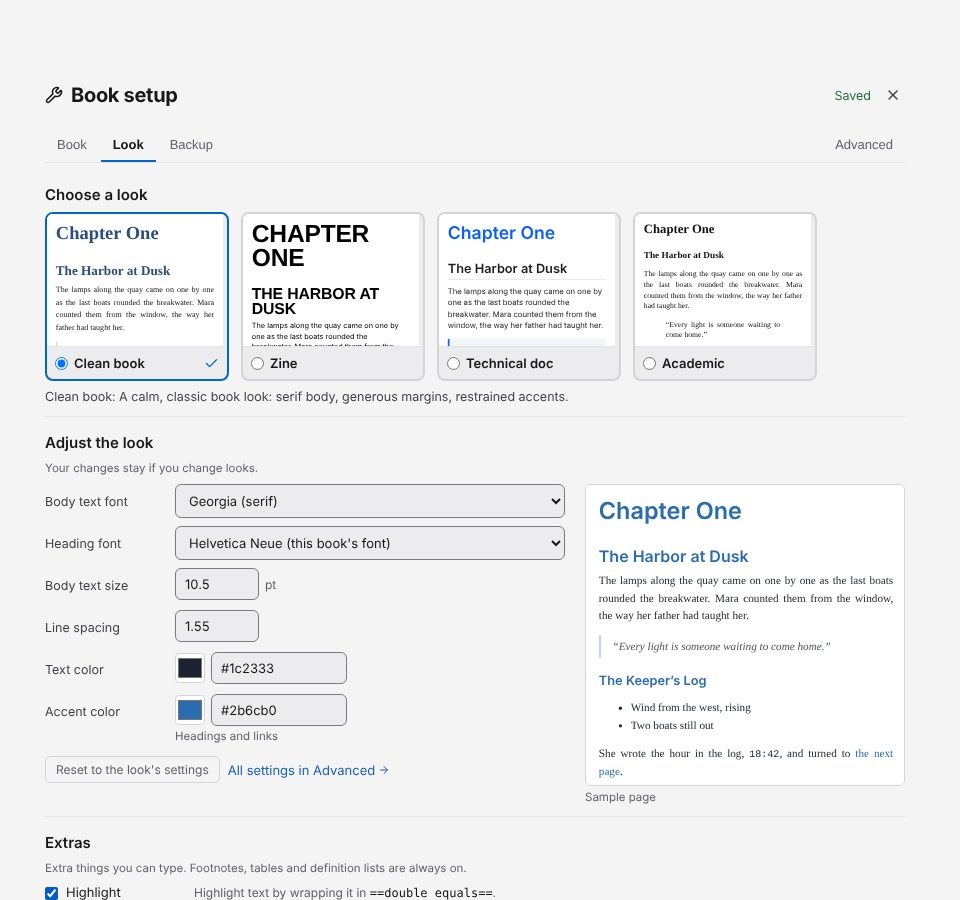
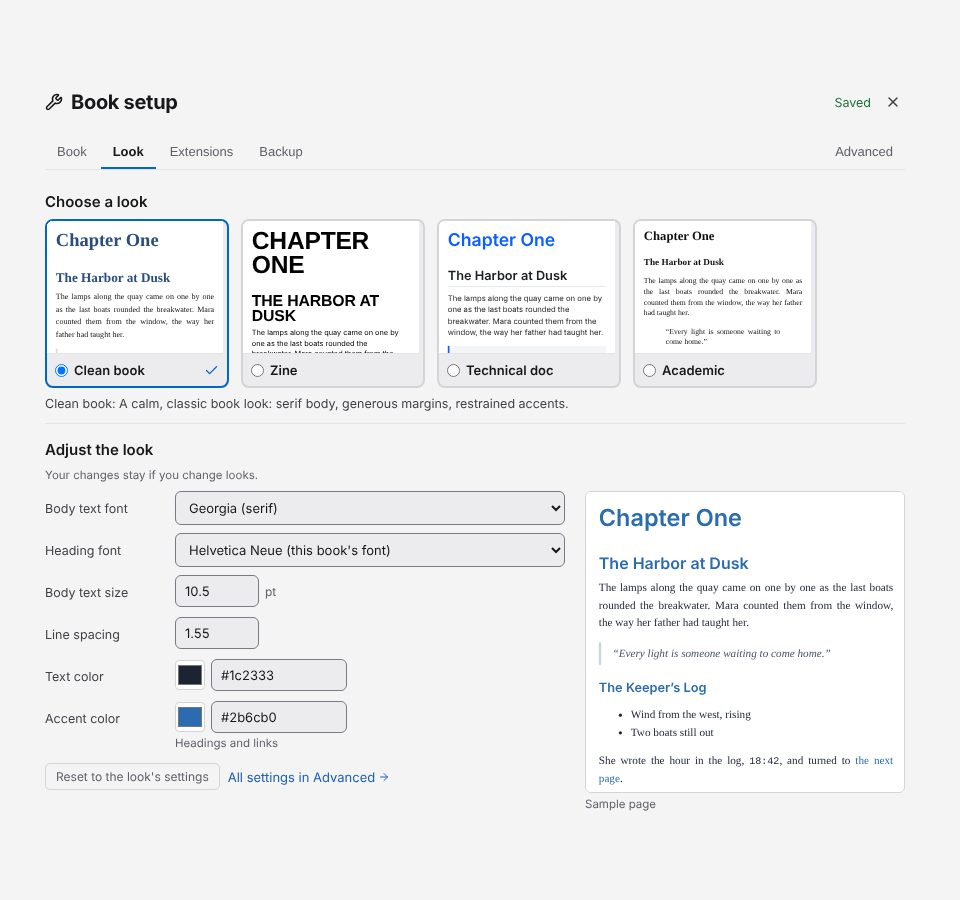
Docs: the Extensions tab and the Stylesheets list
- The UX contract's Book setup tree, §9 (Extensions) and §11 (stylesheets
  are now a list on Advanced) describe the new tabs.
- The desktop guide sends authors to Setup > Extensions for extras, plugins
  and publishing plugins, and to Advanced for the stylesheets.
- The guide screenshots script takes the Extensions and Advanced tabs;
  book-settings-advanced.jpg is new, and the images that show the tab strip
  are retaken.

Claude-Session: https://claude.ai/code/session_0178UQ9MC2nUJf2zfopzSu4q

diff --git a/docs/ux-design-contract.md b/docs/ux-design-contract.md
@@ -119,17 +119,22 @@ gutterpress/
 │                                                        proposed deltas: preflight checklist, history)
 ├── Book setup                                 SHIPPED  (ProjectSettingsView, the toolbar's Setup
 │   │                                                    button; title "Book setup"; tabs Book /
-│   │                                                    Look / Backup, Advanced set apart at the
-│   │                                                    right; one Saving…/Saved in the header;
-│   │                                                    every tab saves as you go; #442)
+│   │                                                    Look / Extensions / Backup, Advanced set
+│   │                                                    apart at the right; one Saving…/Saved in
+│   │                                                    the header; every tab saves as you go; #442)
 │   ├── Book (id `book`)                       SHIPPED  (DetailsSection: title, authors, page size,
 │   │                                                    margins, print checks, then chapters by
 │   │                                                    title with "Not in the book" below, then
 │   │                                                    Save as template)
 │   ├── Look (id `look`)                       SHIPPED  (LookSection: Choose a look (a one-choice
 │   │                                                    gallery), Adjust the look (six brand
-│   │                                                    settings beside a live sample), Extras
-│   │                                                    (the built-in features as checkboxes))
+│   │                                                    settings beside a live sample))
+│   ├── Extensions (id `extensions`)           SHIPPED  (ExtensionsSection: Your extensions (the
+│   │                                                    manifest's ordered list: checkbox, move,
+│   │                                                    Remove), then Add an extension: the
+│   │                                                    built-in extras the book does not list,
+│   │                                                    each with what to type, then npm, folder,
+│   │                                                    .zip/.css and web-address adds)
 │   ├── Backup (id `backup`)                   SHIPPED  (ProjectConnectionsSection: one sentence for
 │   │                                                    the book's situation and at most one
 │   │                                                    primary action; GitHub or the book's own
@@ -137,11 +142,12 @@ gutterpress/
 │   │                                                    once set up, Test connection (this book's
 │   │                                                    repository), Repair online backup and
 │   │                                                    Start over from the online copy)
-│   └── Advanced (id `advanced`)               SHIPPED  (the ONE advanced path: Open manifest.yaml /
-│                                                        the stylesheet, the ordered extensions
-│                                                        list (ExtensionsSection) with npm, folder,
-│                                                        .zip/.css and web-address adds, and every
-│                                                        design setting (DesignSection))
+│   └── Advanced (id `advanced`)               SHIPPED  (the ONE advanced path: Open manifest.yaml,
+│                                                        the Stylesheets list (StylesSection: the
+│                                                        manifest's `styles:` in order, each with
+│                                                        move, Open and Remove, and the book's other
+│                                                        .css files to add), and every design
+│                                                        setting (DesignSection))
 ├── Project source / version history / GitHub  SHIPPED  (#12–#16, the Node-native git layer; AdvancedSetupDialog,
 │                                                        GitHubDialog, sync status)
 ├── Media panel                                SHIPPED  (MediaPanel, #47)
@@ -166,8 +172,9 @@ gutterpress/
 ```
 
 Document theming (looks, design tokens, stylesheets) and features (plugins)
-live in **Book setup** — the Look tab chooses a look, adjusts its brand
-settings and turns the extras on; Advanced holds everything else — not app
+live in **Book setup** — the Look tab chooses a look and adjusts its brand
+settings, the Extensions tab holds the extension list and turns the extras on,
+and Advanced holds the stylesheets and every design setting — not app
 Settings: app appearance and print theme are deliberately separated
 concepts; do not merge them back. Forms live where their task happens: a
 publishing key is added in Publish, a book's Git server is connected in its
@@ -469,9 +476,11 @@ buttons.
   the Dev persona's "no escape hatches" pain point and would **regress
   shipped, ungated features** (#30 plugins, #32 themes).
 - Book setup's **Book and Look tabs are core to a good first PDF and are
-  never gated**. Its **Advanced** tab is the one advanced path for npm, folder
-  and web extensions, their order, every design setting and the files behind
-  them; the other tabs link to it and never repeat its controls.
+  never gated**. Its **Extensions** tab is the one place for the extension
+  list — the built-in extras, npm, folder and web extensions, and their order
+  — and its **Advanced** tab is the one place for the stylesheets, every
+  design setting and the manifest; the other tabs link to them and never
+  repeat their controls.
 - **Every Book setup tab saves as you go; there is no Save button.** Text
   fields commit when you leave them or press Enter; pending edits are saved
   when you switch tabs or close the panel. A commit writes only what changed
@@ -706,12 +715,12 @@ Proposed refinements (file issues):
   and badge the count above N matches.
 - "Visual Mode" toggle → belongs to #37 (see §5).
 
-### 9. Extensions (one list: looks, features, component libraries) — on screen: Look and Advanced
+### 9. Extensions (one list: looks, features, component libraries) — on screen: Look and Extensions
 
 **Status: SHIPPED** (one manifest list, `extensions:`, since #265; shown
 since #442 as Book setup → **Look** for the main path — a look chosen from a
-gallery and the built-in features as Extras — and Book setup → **Advanced**
-for the list itself, `ExtensionsSection`). This section is rewritten around
+gallery — and, as its own **Extensions** tab, the list itself and everything
+that adds to it, `ExtensionsSection`). This section is rewritten around
 the actual plugin model; the original "app store" concept is **rejected** as
 incompatible with docs/architecture-rules.md §5 unless a future ADR changes
 that rule.
@@ -733,7 +742,7 @@ The model (binding, from docs/architecture-rules.md §5 and #265):
 - Build/export/validate **fail fast** on any plugin load error, identifying
   the offending manifest entry — a final artifact never silently omits
   author-configured formatting. Live preview **degrades and reports loudly**
-  ("Not downloaded yet." with Install on the Advanced row); every skip is
+  ("Not downloaded yet." with Install on the Extensions row); every skip is
   surfaced.
 - **List order is load order and cascade order.** A later entry runs after
   earlier ones and sees their output, and its CSS wins ties; the project's
@@ -746,18 +755,23 @@ one-choice gallery of thumbnails (the built-in looks and any npm or folder
 look in the list), and choosing replaces the book's look in place in
 `extensions:` — a built-in look is removed, an npm or folder look switched
 off — with no toast; a book with two enabled looks gets a notice and the way
-to Advanced instead of a guess. *Extras* lists the built-in features as
-checkboxes, each with what to type. **Advanced** is the list itself: the
+to the Extensions tab instead of a guess. **Extensions** is the list itself
+and the only place its entries are changed: *Your extensions* shows the
 manifest's `extensions:` entries in order, each row a checkbox (on/off), the
 label, its kind and source in words ("Look · built in", "Extra · npm
 3.0.0"), move up/down and Remove. A row says something only when it needs
 attention: "Version x is available." with Update, "Not downloaded yet." with
 Install, "Couldn't load." with Show details and Check again. Updates are
 checked once when the tab opens, never at project load. Below the list, one
-Add area: an npm package name, a folder or file referenced in place, a
-`.zip`/`.css` import and a web address (§11). No status badges, no version
-picker, no npm search (the website's plugin finder and `gutterpress ext
-search` cover it) and no pre-release switch (`gutterpress ext add
+*Add an extension* area, in two parts: the **built-in extras** the book does
+not list yet (Highlight, Callouts, Math…), each with what to type and an Add
+button, and then an npm package name, a folder or file referenced in place, a
+`.zip`/`.css` import and a web address (§11). A built-in extra is never shown
+twice: while the book lists it, it is a row of the list; Remove puts it back
+among the ones to add. (Footnotes, tables and definition lists need no
+extension and are always on, which the area says.) No status badges, no
+version picker, no npm search (the website's plugin finder and `gutterpress
+ext search` cover it) and no pre-release switch (`gutterpress ext add
 name@version`).
 
 Refinements (PROPOSED): link each plugin to its npm page for
@@ -816,8 +830,8 @@ adjusted on Book setup's **Look** tab) with PROPOSED refinements tracked in
 **#106**.
 
 Shipped: the Look tab's gallery offers the built-in looks (bundled names:
-nothing is copied) and any npm or folder look already in the list; Advanced
-adds a look from npm, a folder referenced in place, or a **folder, ZIP, CSS
+nothing is copied) and any npm or folder look already in the list; the
+Extensions tab adds a look from npm, a folder referenced in place, or a **folder, ZIP, CSS
 file or URL** import (`extension-import.ts`, reached through server routes).
 Every gallery card shows a **rendered thumbnail** of its CSS over a fixed
 sample; there is no hover preview.
@@ -857,8 +871,19 @@ stylesheet, which wins, with each variable's name, a per-row "Use the look's
 value", and Undo changes for the visit. Derived labels are plain words
 (`--fs-display` → "Display size"); a look labels its own extra tokens with
 `@label`. A compound value (`1pt solid …`) is edited as text, never as a
-bare number. The book's stylesheets are listed in the manifest's `styles:`
-(Advanced › Open manifest.yaml); there is no stylesheet list on screen.
+bare number. The book's stylesheets are the manifest's `styles:` list, shown
+on **Advanced › Stylesheets** with the extension list's rows: the path, move
+up/down, **Open** (the file opens in the editor and Book setup closes) and
+**Remove**, in load order ("a later one wins where two disagree"; they load
+after every extension). Remove takes a stylesheet off `styles:` and never
+deletes the file, and the last one has no Remove — an empty `styles:` falls
+back to `styles/book.css`, else the first `.css` the book has, so the list
+would show it again. **Add a stylesheet** offers the book's other `.css`
+files (its folder, `styles/` and `css/`, and a repository's shared ones) to
+add at the end of the list. A book with no stylesheet says so and offers
+**Create styles/book.css**, the file the first design edit creates too.
+**Open manifest.yaml** sits at the top of Advanced, since the manifest is not
+a stylesheet.
 
 There is **no apply and no revert**: a look is an ordinary list entry
 (enable/disable, reorder, remove — the same verbs `gutterpress ext`

diff --git a/docs/desktop-guide/05-design.md b/docs/desktop-guide/05-design.md
@@ -5,10 +5,10 @@ description: Open Book setup to set the title, authors, page size, margins and c
 
 # Change your book's design
 
-Click **Setup** (the wrench) in the toolbar to open **Book setup**. Its tabs are **Book**, **Look**
-and **Backup**, with **Advanced** set apart on the right. Close it with the X or Esc. Every change
-is saved as you make it: there is no Save button, and the top of Book setup says **Saving…** and
-then **Saved**.
+Click **Setup** (the wrench) in the toolbar to open **Book setup**. Its tabs are **Book**, **Look**,
+**Extensions** and **Backup**, with **Advanced** set apart on the right. Close it with the X or Esc.
+Every change is saved as you make it: there is no Save button, and the top of Book setup says
+**Saving…** and then **Saved**.
 
 ## Title, page and chapters
 
@@ -42,8 +42,9 @@ look your book has from elsewhere. The one your book uses comes first, with a ti
 to use it instead; Gutterpress saves the choice as soon as you stop, and the line under the
 pictures says what the look is like. A new book already has the look its template came with.
 
-A book that combines two looks (set up in **Advanced**) says so above the pictures, and its looks
-are changed in Advanced.
+A book that combines two looks (set up on the **Extensions** tab) says so above the pictures, and
+its looks are changed there. Formatting extras such as callouts and math are on the Extensions tab
+too: see [add plugins and formatting extras](06-plugins.md).
 
 ## Adjust the look
 
@@ -59,17 +60,24 @@ again; **Undo changes** in Advanced brings them back.
 
 ![Book setup, Look tab: the looks to choose from, and the six settings beside the sample page](images/book-settings-design.jpg)
 
-## Every setting, and the files behind them
+## Every setting, and your stylesheets
 
 **All settings in Advanced** opens the **Advanced** tab at **All design settings**: every setting
 your look has, grouped into **Fonts**, **Colors**, **Sizes & numbers** and **Other**, each with the
 CSS name you would use in a stylesheet. The undo arrow beside a value you changed earlier offers
 **Use the look's value**; **Undo changes** undoes the changes made since you opened Book setup.
 
-Under **Files**, **Open manifest.yaml** and **Open styles/book.css** (your stylesheet's own name)
-open those files in the editor. The manifest's `styles:` list is where the book's stylesheets are
-turned on or off. The [styling chapter](https://gutterpress.dimm.city/docs/styling-theming/) covers
+At the top of Advanced, **Open manifest.yaml** opens the book's manifest in the editor. Under
+**Stylesheets** are the book's own `.css` files, in the order they load: a later one wins where two
+disagree, and all of them load after your extensions. Each row has **↑** and **↓** to move it,
+**Open**, which opens the file in the editor, and **Remove**, which takes it off the list and never
+deletes the file. A book always keeps at least one stylesheet, so the last one has no Remove. Under
+**Add a stylesheet** are the other `.css` files in your book's folder and its `styles` folder:
+**Add** puts one at the end of the list. A book with no stylesheet says so and offers **Create
+styles/book.css**. The [styling chapter](https://gutterpress.dimm.city/docs/styling-theming/) covers
 what a stylesheet can do.
+
+![Book setup, Advanced tab: the stylesheets, and every design setting](images/book-settings-advanced.jpg)
 
 ## Change the page size and margins
 

diff --git a/docs/desktop-guide/06-plugins.md b/docs/desktop-guide/06-plugins.md
@@ -6,14 +6,16 @@ description: Turn on the built-in formatting extras, add plugins from npm or a f
 # Add plugins and formatting extras
 
 Plugins add new markdown to your book: highlights, callouts, footnote styles, a game's components
-and more. Six of them are built in; the rest come from npm or a folder, on the **Advanced** tab of
-**Setup**.
+and more. Six of them are built in; the rest come from npm or a folder. All of them are on the
+**Extensions** tab of **Setup**.
 
 ## Turn on a formatting extra
 
-Six extras are built in, with nothing to download. Open **Setup → Look** and scroll to **Extras**:
-tick one and it works straight away, untick it to take it out again (footnotes, tables and
-definition lists are always on):
+Six extras are built in, with nothing to download. Open **Setup → Extensions**. Under **Add an
+extension → Built-in extras**, each extra the book does not use yet has an **Add** button and says
+what to type; click it and the extra works straight away, and appears in **Your extensions** above.
+To take one out again, click its **Remove** there, and it is offered under **Built-in extras**
+again (footnotes, tables and definition lists are always on):
 
 | Extra | Type |
 | --- | --- |
@@ -24,12 +26,9 @@ definition lists are always on):
 | Callouts | `> [!NOTE]`, `> [!TIP]`, `> [!IMPORTANT]`, `> [!WARNING]`, `> [!CAUTION]` |
 | Math | `$E = mc^2$` in a line, or `$$` ... `$$` on lines of their own |
 
-When your book also uses plugins from elsewhere, a line under the extras says how many and links
-to Advanced.
-
 ## Add a plugin from npm or a folder
 
-Open **Setup → Advanced**. Under **Add an extension**:
+On **Setup → Extensions**, under **Add an extension → From npm, a folder or a web address**:
 
 - type a package's name in **npm package** (with a version if you want one, such as
   `markdown-it-highlightjs@4.3.0`) and click **Add**. Gutterpress downloads it, checks it, keeps a
@@ -43,18 +42,18 @@ Open **Setup → Advanced**. Under **Add an extension**:
 Plugins from npm, folders and the web run with full access to your computer: only add ones you
 trust.
 
-![Book setup, Advanced tab: the extension list and the ways to add one](images/book-settings-extensions.jpg)
+![Book setup, Extensions tab: your extensions, and the ways to add one](images/book-settings-extensions.jpg)
 
 ## Keep plugins working and up to date
 
-The **Extensions** list on the Advanced tab is everything your book uses, looks and extras
-included, in the order they load: one lower in the list wins where two disagree, and your own
+**Your extensions**, at the top of the Extensions tab, is everything your book uses, looks and
+extras included, in the order they load: one lower in the list wins where two disagree, and your own
 stylesheet always comes last. Each row says what it is and where it comes from, and has:
 
 - a checkbox to use it or not, **↑** and **↓** to move it, and **Remove** (which deletes an npm
   plugin's downloaded copy);
 - **Version x is available.** and **Update**, when npm has a newer version. Gutterpress asks npm
-  once each time you open the Advanced tab;
+  once each time you open the Extensions tab;
 - **Couldn't load.** with **Show details**, when it fails, and **Install** or **Reinstall** for an
   npm plugin whose copy is missing or broken (or **Check again** for anything else). A plugin
   that works says nothing.

diff --git a/docs/architecture-rules.md b/docs/architecture-rules.md
@@ -387,7 +387,7 @@ a rebuild after the manifest's pins change (an edit, Get latest, restoring a
 version) and a restart into another book. It degrades rather than failing. The
 desktop's `PreviewOpenController` also restores when a book is opened, only so
 the open can show download progress and a toast (`restoredExtensions`); the
-entry's row in Book setup › Advanced, with its Install button, stays the fallback.
+entry's row in Book setup › Extensions, with its Install button, stays the fallback.
 `publish` loads no plugins and does not restore — except for a publishing
 plugin (experimental, #381; ratified 2026-10-14): when the provider id is not
 a built-in and names an npm entry, `resolvePublishProvider`
@@ -431,7 +431,7 @@ The loader has two modes via `loadPlugins(configs, baseDir, onError?)`:
     A final artifact must never silently omit author-configured formatting.
   - **Degrade-and-report (`onError` supplied)** — the LIVE PREVIEW only. A plugin
     whose vendored copy is missing or cannot load is skipped, `onError` fires
-    (the preview `warn`s; the desktop's Book setup › Advanced shows "Not downloaded yet." or
+    (the preview `warn`s; the desktop's Book setup › Extensions shows "Not downloaded yet." or
     "Couldn't load." with the fix), and the rest of the document still
     renders. This is NOT the silent-skip that the loader deliberately removed —
     every skip is surfaced loudly. Rationale: one uninstalled plugin must not

diff --git a/docs/open-design/git-collaboration-gutterpress-open-design.md b/docs/open-design/git-collaboration-gutterpress-open-design.md
@@ -172,7 +172,7 @@ gutterpress ext add markdown-it-emoji@3.0.0 ./books/core-book --export full
 
 Gutterpress resolves and integrity-checks the package graph, vendors exact runtime dependencies beneath `books/core-book/extensions/npm/`, and writes the entry back pinned (`markdown-it-highlightjs@4.3.0`). Commit the manifest change (the pin); the managed tree is gitignored and is downloaded again from the pin on a fresh clone. Do not replace this with a shared `node_modules`, a package-manager install, or a hand-copied vendor directory.
 
-`gutterpress ext list|remove|enable|disable` cover the rest of the list from the terminal; the desktop's Book setup › Advanced tab is the same list.
+`gutterpress ext list|remove|enable|disable` cover the rest of the list from the terminal; the desktop's Book setup › Extensions tab is the same list.
 
 ## Share the Open Design plugin through Git
 

diff --git a/docs/open-design/using-open-design-with-gutterpress.md b/docs/open-design/using-open-design-with-gutterpress.md
@@ -329,7 +329,7 @@ gutterpress ext add markdown-it-emoji@3.0.0 ./books/core-book --export full
 
 Gutterpress verifies and vendors the exact runtime graph beneath the book's `extensions/npm/` directory and writes the entry back pinned (`markdown-it-highlightjs@4.3.0`). Commit the manifest entry (the pin); the managed tree is gitignored and a fresh clone downloads exactly that version on its first build, validate, preview or open. Do not hand-edit it or move it into `shared/`.
 
-`gutterpress ext list|remove|enable|disable` cover the rest of the list from the terminal; the desktop's Book setup › Advanced tab is the same list.
+`gutterpress ext list|remove|enable|disable` cover the rest of the list from the terminal; the desktop's Book setup › Extensions tab is the same list.
 
 ## Use the companion design guide
 

diff --git a/docs/desktop-guide/08-publish.md b/docs/desktop-guide/08-publish.md
@@ -30,9 +30,9 @@ Google Drive for both.
 Each destination shows whether it is **Connected**, **Needs a key**, or needs **No account**.
 
 A book can also add destinations of its own with a **publishing plugin** (experimental: it may
-change or be removed). Add one under **Book setup** → **Advanced** like any extension; its row there says **Publish
-destination**, and it shows in this list after the built-in destinations, marked
-**Experimental**.
+change or be removed). Add one under **Book setup** → **Extensions** like any extension; its row
+there says **Publish destination**, and it shows in this list after the built-in destinations,
+marked **Experimental**.
 
 ![The Choose step for a PDF: a folder on this computer is always included](images/publish-choose.jpg)
 
